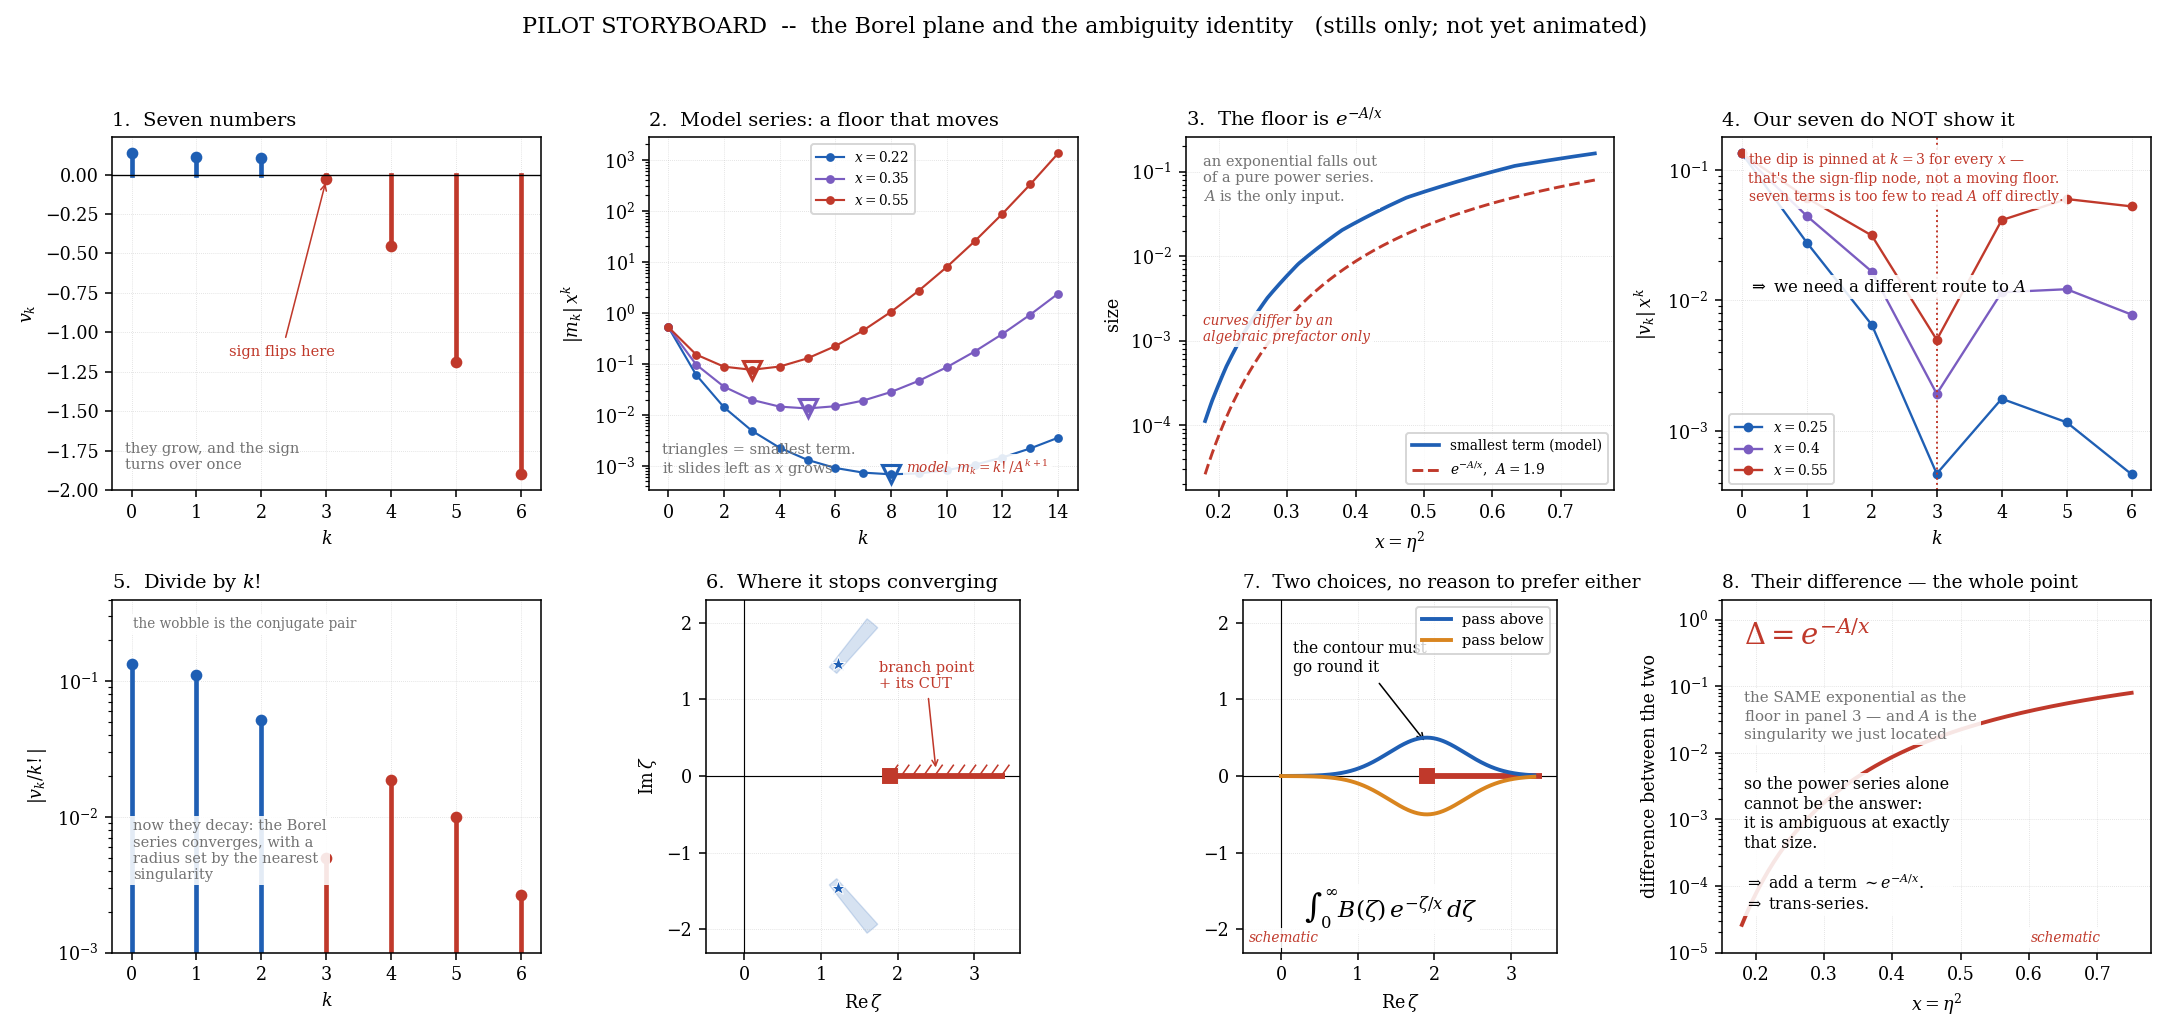
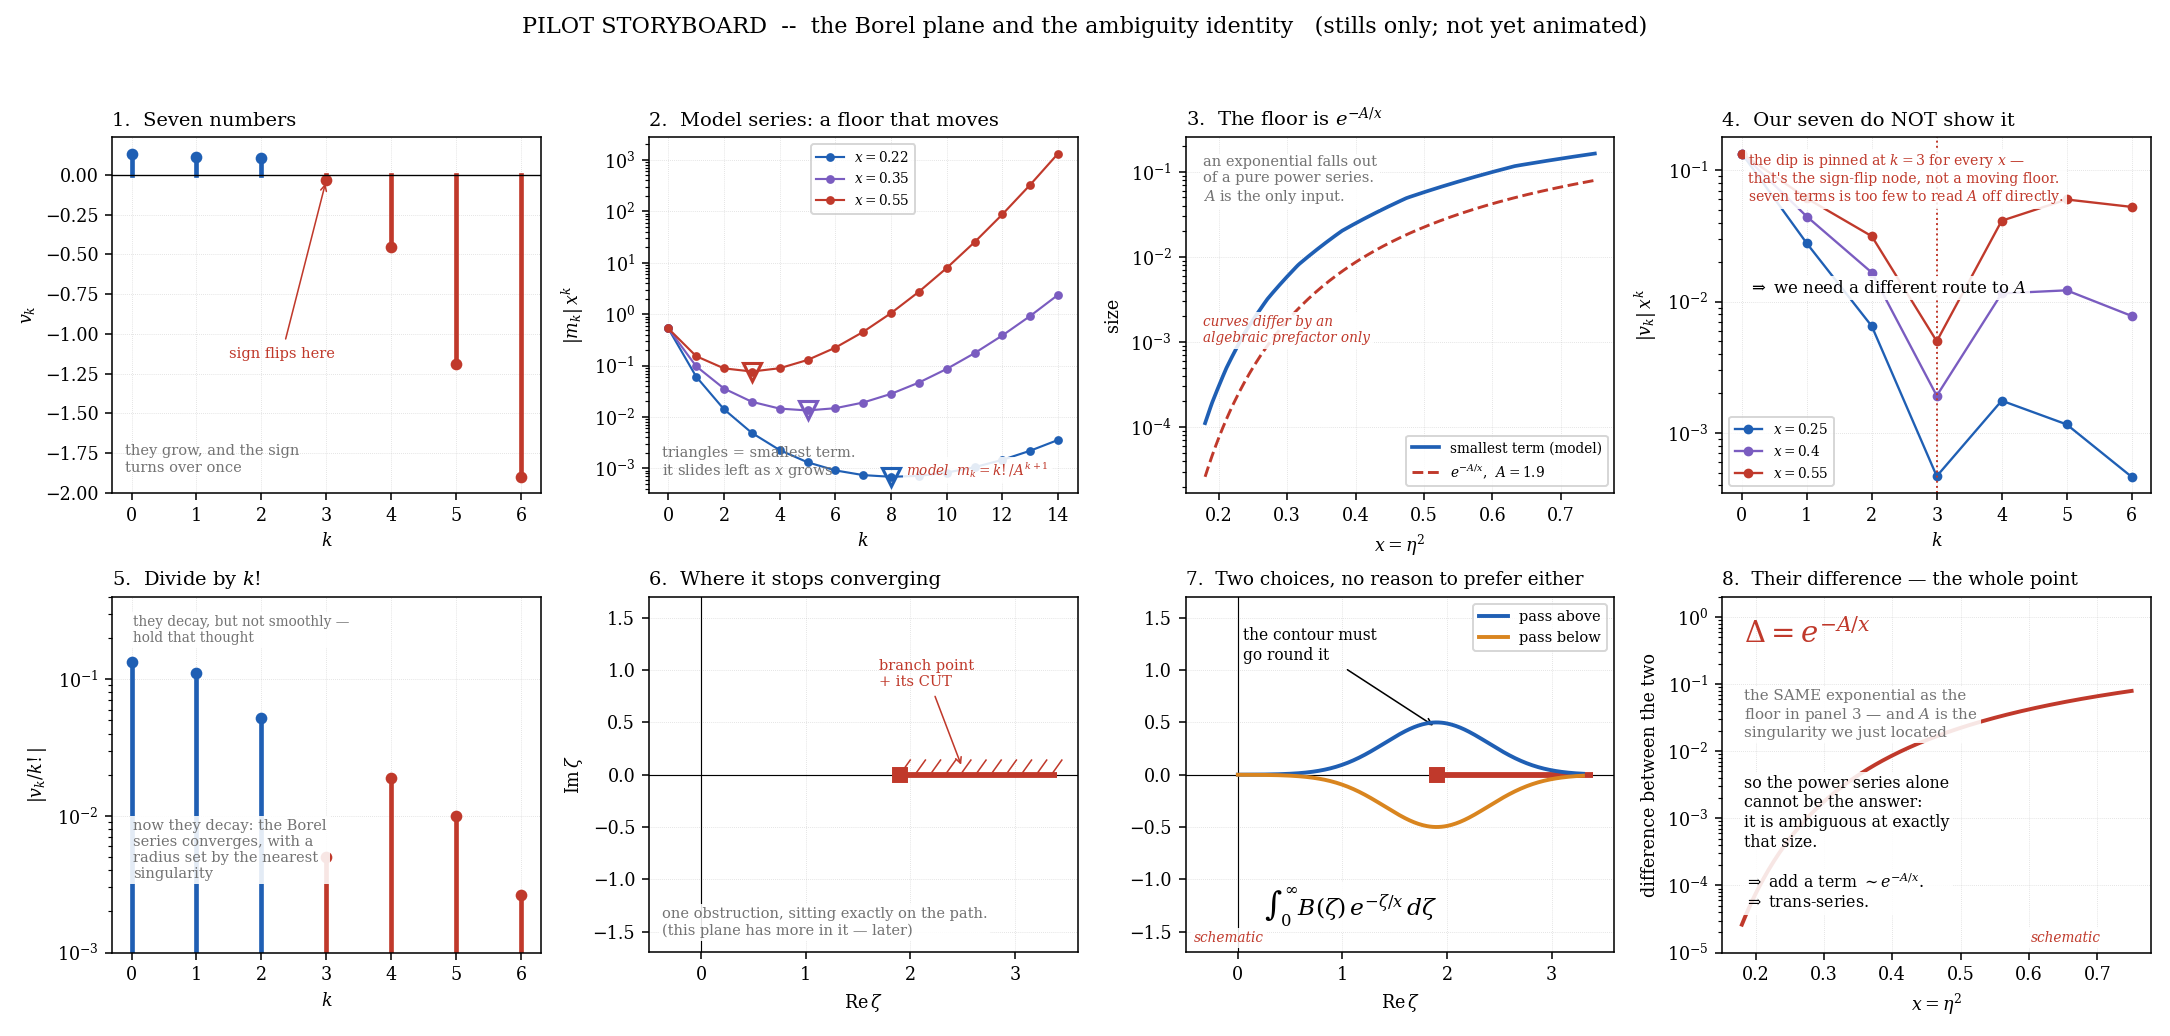
Pilot: cut the conjugate pair from the Borel panel
Acting on the expert call that this was the main defect in the storyboard.

The ambiguity that the whole module is built around comes ONLY from the real singularity sitting
on the integration contour.  The complex-conjugate pair at 1.9 e^{+-i 50 deg} is off-contour and
produces no ambiguity for real positive x -- yet drawn as two shaded wedges it was the most
salient object on the panel, so the viewer's eye landed on the thing that is not the cause.  It
is a fact about THIS series, not about the mechanism, and putting it on screen before the simple
case has landed is the standard error of showing the full object too early.

Panel 6 now carries one obstruction and nothing else.  Rather than explain the pair and then ask
the viewer to set it aside, two seeds are planted for a later module: panel 5 now reads "they
decay, but not smoothly -- hold that thought" (it previously said "the wobble is the conjugate
pair", introducing a term with no referent yet), and panel 6 adds "this plane has more in it --
later".  The pair, and the coefficient wobble it causes, become that module's payoff instead of
this one's distraction.

Also: panels 6 and 7 retightened to the same vertical range now that the wedges are gone, so the
two read as a continuous pair -- here is the obstruction, here is going round it -- and the patch
imports are dropped as no longer used.

Ledger entry 1 marked resolved; the remaining five stand and still want expert correction,
[…]

diff --git a/exposition/pilot_borel/storyboard.py b/exposition/pilot_borel/storyboard.py
@@ -20,7 +20,7 @@ import numpy as np
 import matplotlib
 matplotlib.use('Agg')
 import matplotlib.pyplot as plt
-from matplotlib.patches import Wedge, FancyArrowPatch
+# (no patch primitives needed: the conjugate-pair wedges were removed from panel 6)
 
 plt.rcParams.update({
     'font.family': 'serif', 'font.size': 9, 'axes.linewidth': 0.8,
@@ -119,29 +119,28 @@ a.set_title(r'5.  Divide by $k!$', loc='left', fontsize=10)
 a.text(0.05, 0.20, 'now they decay: the Borel\nseries converges, with a\n'
                    'radius set by the nearest\nsingularity',
        transform=a.transAxes, fontsize=7.5, color=GREY, **BG, va='bottom')
-a.text(0.05, 0.95, 'the wobble is the conjugate pair',
+a.text(0.05, 0.95, "they decay, but not smoothly —\nhold that thought",
        transform=a.transAxes, fontsize=7, color=GREY, **BG, va='top')
 
 # ---------------------------------------------------------------- 6. the Borel plane + CUT
 a = ax[5]
-for t1, t2 in ((TH_PAIR - 2, TH_PAIR + 2), (-TH_PAIR - 2, -TH_PAIR + 2)):
-    a.add_patch(Wedge((0, 0), Z_HI, t1, t2, width=Z_HI - Z_LO, facecolor=BLUE, alpha=0.18,
-                      edgecolor=BLUE, lw=0.7, zorder=1))
-for s in (+1, -1):
-    th = np.deg2rad(s * TH_PAIR)
-    a.plot(1.9 * np.cos(th), 1.9 * np.sin(th), '*', color=BLUE, ms=8, mec='white', mew=0.5,
-           zorder=5)
+# The complex-conjugate pair is DELIBERATELY ABSENT here.  It is off-contour, so it causes no
+# ambiguity for real positive x -- but drawn as shaded wedges it is the most salient object on
+# the panel and viewers misattribute the ambiguity to it.  One mechanism at a time; the pair
+# belongs to the later module on reading the plane's finer structure.  See DISTORTION_LEDGER.md.
 # THE CUT -- mandatory, see DISTORTION_LEDGER.md
 a.plot([A, 3.4], [0, 0], color=RED, lw=3.0, solid_capstyle='butt', zorder=4)
 for xc in np.linspace(A, 3.35, 11):
     a.plot([xc, xc + 0.10], [0.0, 0.14], color=RED, lw=0.8, zorder=4)
 a.plot(A, 0, 's', color=RED, ms=7, zorder=6)
-a.annotate('branch point\n+ its CUT', xy=(2.5, 0.06), xytext=(1.75, 1.15), fontsize=7.5,
+a.annotate('branch point\n+ its CUT', xy=(2.5, 0.06), xytext=(1.70, 0.85), fontsize=7.5,
            color=RED, arrowprops=dict(arrowstyle='->', color=RED, lw=0.8))
 a.axhline(0, color='k', lw=0.6); a.axvline(0, color='k', lw=0.6)
-a.set_xlim(-0.5, 3.6); a.set_ylim(-2.3, 2.3); a.set_aspect('equal')
+a.set_xlim(-0.5, 3.6); a.set_ylim(-1.7, 1.7); a.set_aspect('equal')
 a.set_xlabel(r'$\mathrm{Re}\,\zeta$'); a.set_ylabel(r'$\mathrm{Im}\,\zeta$')
 a.set_title('6.  Where it stops converging', loc='left', fontsize=10)
+a.text(0.03, 0.05, 'one obstruction, sitting exactly on the path.\n(this plane has more in it — later)',
+       transform=a.transAxes, fontsize=7.5, color=GREY, **BG)
 
 # ---------------------------------------------------------------- 7. contour + two choices
 a = ax[6]
@@ -151,12 +150,12 @@ tt = np.linspace(0, 3.3, 240)
 for sgn, col, lab in ((+1, BLUE, 'pass above'), (-1, '#d9851f', 'pass below')):
     a.plot(tt, sgn * 0.50 * np.exp(-((tt - A) / 0.70)**2), color=col, lw=2.0, zorder=5,
            label=lab)
-a.annotate('the contour must\ngo round it', xy=(A, 0.42), xytext=(0.15, 1.35), fontsize=8,
+a.annotate('the contour must\ngo round it', xy=(A, 0.45), xytext=(0.05, 1.10), fontsize=8,
            arrowprops=dict(arrowstyle='->', color='k', lw=0.8))
-a.text(0.30, -1.85, r'$\int_0^\infty B(\zeta)\,e^{-\zeta/x}\,d\zeta$', fontsize=12, **BG)
+a.text(0.25, -1.35, r'$\int_0^\infty B(\zeta)\,e^{-\zeta/x}\,d\zeta$', fontsize=12, **BG)
 a.legend(fontsize=7.5, loc='upper right')
 a.axhline(0, color='k', lw=0.6); a.axvline(0, color='k', lw=0.6)
-a.set_xlim(-0.5, 3.6); a.set_ylim(-2.3, 2.3); a.set_aspect('equal')
+a.set_xlim(-0.5, 3.6); a.set_ylim(-1.7, 1.7); a.set_aspect('equal')
 a.set_xlabel(r'$\mathrm{Re}\,\zeta$')
 a.set_title('7.  Two choices, no reason to prefer either', loc='left', fontsize=9.5)
 a.text(0.02, 0.03, 'schematic', transform=a.transAxes, **SCHEM, **BG)

diff --git a/exposition/DISTORTION_LEDGER.md b/exposition/DISTORTION_LEDGER.md
@@ -20,11 +20,18 @@ expert as each module is designed.
 ## Module γ2+γ3 (pilot) — distortion statement
 Completed 2026-07-27 against `pilot_borel/storyboard.py`. **Needs expert correction.**
 
-1. **The conjugate pair is a red herring in this arc, and it is the most visually salient thing
-   on panel 6.** The ambiguity comes *only* from the real singularity sitting **on** the
-   integration contour; the pair at 1.9e^{±i50°} is off-contour and causes no ambiguity for real
-   positive x. A viewer will naturally misattribute. Either de-emphasise the pair here or say
-   explicitly on-panel that it is not what is being crossed.
+1. ~~**The conjugate pair is a red herring in this arc, and it is the most visually salient thing
+   on panel 6.**~~ **RESOLVED 2026-07-27 — expert confirmed this was the main defect.** The pair
+   is now *absent* from the pilot entirely. Rationale: the ambiguity comes **only** from the real
+   singularity sitting *on* the integration contour; the pair at 1.9e^{±i50°} is off-contour and
+   causes no ambiguity for real positive x. It is a fact about *this series*, not about the
+   *mechanism* — so showing it here is the classic error of displaying the full object before the
+   simple case has landed. Panel 6 now carries one obstruction and nothing else.
+   Two seeds planted instead of an explanation: panel 5 says "they decay, but not smoothly —
+   hold that thought" (previously "the wobble is the conjugate pair", which introduced a term
+   with no referent), and panel 6 says "this plane has more in it — later". The pair, and the
+   coefficient wobble it causes, become the payoff of a later module on the plane's finer
+   structure.
 2. **The model series is not our series.** Panel 2–3 use m_k = k!/A^{k+1}, a prototype with a
    *single* real singularity. Labelled on-panel, but the viewer must not conclude our v_k behave
    this way — panel 4 exists precisely because they do not.
